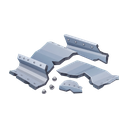
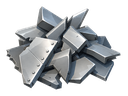
Route material drops to inventory

diff --git a/berries-config.js b/berries-config.js
@@ -24,6 +24,7 @@
       widthPx: 50,
       heightPx: 38,
       inventoryItem: true,
+      findingItem: true,
     },
     {
       id: 'kettle',
@@ -32,6 +33,7 @@
       widthPx: 46,
       heightPx: 46,
       inventoryItem: true,
+      findingItem: true,
     },
     {
       id: 'axe',
@@ -40,6 +42,52 @@
       widthPx: 48,
       heightPx: 48,
       inventoryItem: true,
+      findingItem: true,
+    },
+    {
+      id: 'metal-scrap',
+      titleRu: 'Кусочки металла',
+      assetUrl: './img/scenario-drop/metal-scrap.png?v=20260605-material-inventory',
+      widthPx: 40,
+      heightPx: 32,
+      inventoryItem: true,
+      resourceCategory: 'metal',
+    },
+    {
+      id: 'pine-log',
+      titleRu: 'Еловые брёвна',
+      assetUrl: './img/mineable/log-pine.png',
+      widthPx: 50,
+      heightPx: 38,
+      inventoryItem: true,
+      resourceCategory: 'wood',
+    },
+    {
+      id: 'birch-log',
+      titleRu: 'Берёзовые брёвна',
+      assetUrl: './img/mineable/log-birch.png',
+      widthPx: 50,
+      heightPx: 38,
+      inventoryItem: true,
+      resourceCategory: 'wood',
+    },
+    {
+      id: 'dead-log',
+      titleRu: 'Сухие брёвна',
+      assetUrl: './img/mineable/log-dead.png',
+      widthPx: 52,
+      heightPx: 36,
+      inventoryItem: true,
+      resourceCategory: 'wood',
+    },
+    {
+      id: 'snow-pine-log',
+      titleRu: 'Снежные еловые брёвна',
+      assetUrl: './img/mineable/log-snow-pine.png',
+      widthPx: 52,
+      heightPx: 36,
+      inventoryItem: true,
+      resourceCategory: 'wood',
     },
   ];
 
@@ -206,6 +254,7 @@
       ],
       extractStages: [1, 0.82, 0.66, 0.5],
       extractHarvestMs: 700,
+      extractParticleItemId: 'pine-log',
       extractParticleAssetUrl: './img/mineable/log-pine.png',
       extractParticleWidthPx: 50,
       extractParticleHeightPx: 38,
@@ -257,6 +306,7 @@
       ],
       extractStages: [1, 0.84, 0.68, 0.52],
       extractHarvestMs: 700,
+      extractParticleItemId: 'birch-log',
       extractParticleAssetUrl: './img/mineable/log-birch.png',
       extractParticleWidthPx: 50,
       extractParticleHeightPx: 38,
@@ -308,6 +358,7 @@
       ],
       extractStages: [1, 1, 1, 1],
       extractHarvestMs: 700,
+      extractParticleItemId: 'dead-log',
       extractParticleAssetUrl: './img/mineable/log-dead.png',
       extractParticleWidthPx: 52,
       extractParticleHeightPx: 36,
@@ -359,6 +410,7 @@
       ],
       extractStages: [1, 1, 1, 1],
       extractHarvestMs: 700,
+      extractParticleItemId: 'snow-pine-log',
       extractParticleAssetUrl: './img/mineable/log-snow-pine.png',
       extractParticleWidthPx: 52,
       extractParticleHeightPx: 36,

diff --git a/pixi-game.js b/pixi-game.js
@@ -213,7 +213,7 @@
   ];
 
   const SCENARIO_DROP_IMAGE_ASSETS = [
-    './img/scenario-drop/metal-scrap.png',
+    './img/scenario-drop/metal-scrap.png?v=20260605-material-inventory',
     './img/scenario-drop/nail-puller.png',
     './img/scenario-drop/kettle.png',
     './img/scenario-drop/axe.png',
@@ -458,6 +458,7 @@
   const scenarioDropDefs = Array.isArray(scenarioConfig.drops) ? scenarioConfig.drops : [];
   const BERRIES_LIST = Array.isArray(berriesConfig.berries) ? berriesConfig.berries : [];
   const INVENTORY_ITEMS = Array.isArray(berriesConfig.inventoryItems) ? berriesConfig.inventoryItems : [];
+  const MATERIAL_RESOURCE_CATEGORIES = new Set(['wood', 'metal', 'ore', 'stone']);
   const resourceById = new Map(BERRIES_LIST.map((item) => [item.id, item]));
   const inventoryItemById = new Map(INVENTORY_ITEMS.map((item) => [item.id, item]));
   const scenarioDropById = new Map([...BERRIES_LIST, ...scenarioDropDefs, ...INVENTORY_ITEMS].map((item) => [item.id, item]));
@@ -1082,6 +1083,16 @@
     return getResourceProfitById(def && def.id);
   }
 
+  function isMaterialDropDef(def) {
+    if (!def) return false;
+    const category = def.resourceCategory || def.materialType || def.resourceKind;
+    return Boolean(def.materialItem || def.collectToInventory || MATERIAL_RESOURCE_CATEGORIES.has(category));
+  }
+
+  function isFindingDropDef(def) {
+    return Boolean(def && (def.findingItem || def.scenarioFinding));
+  }
+
   function pickWeightedIndex(list, getW) {
     let sum = 0;
     for (let i = 0; i < list.length; i += 1) sum += Math.max(0, +getW(i) || 0);
@@ -1346,7 +1357,7 @@
         ux: 0,
         uy: 0,
         scenarioDrop: true,
-        special: Boolean(item.special || item.finding || isInventoryDropDef(def)),
+        special: Boolean(((item.special || item.finding) && !isMaterialDropDef(def)) || isFindingDropDef(def)),
       };
     }).filter(Boolean);
   }
@@ -1540,7 +1551,7 @@
       ux: 0,
       uy: 0,
       scenarioDrop: true,
-      special: Boolean(rule.special || rule.finding || isInventoryDropDef(def)),
+      special: Boolean((rule.special || rule.finding || isFindingDropDef(def)) && !isMaterialDropDef(def)),
     };
   }
 
@@ -2178,10 +2189,13 @@
     const primitive = def.primitive || {};
     if (primitive.kind === 'tree') {
       def.__extractParticleDef = {
-        id: def.id,
+        id: def.extractParticleItemId || def.extractParticleDropId || def.id,
+        titleRu: def.extractParticleTitleRu || def.titleRu || def.id,
         assetUrl: def.extractParticleAssetUrl || '',
         widthPx: Number.isFinite(def.extractParticleWidthPx) ? def.extractParticleWidthPx : 48,
         heightPx: Number.isFinite(def.extractParticleHeightPx) ? def.extractParticleHeightPx : 34,
+        inventoryItem: true,
+        resourceCategory: 'wood',
         primitive: { kind: 'log', bark: primitive.trunk || '#6d4a2f', core: '#c89a5b' },
       };
     } else {
@@ -2520,7 +2534,7 @@
   }
 
   function isInventoryDropDef(def) {
-    return Boolean(def && (def.inventoryItem || inventoryItemById.has(def.id)));
+    return Boolean(def && (def.inventoryItem || inventoryItemById.has(def.id) || isMaterialDropDef(def)));
   }
 
   function collectInventoryDrop(def) {

diff --git a/index.html b/index.html
@@ -494,12 +494,12 @@
   </div>
 
   <script src="https://cdn.jsdelivr.net/npm/pixi.js@7.4.2/dist/pixi.min.js"></script>
-  <script src="./berries-config.js?v=20260604-strawberry-balance"></script>
+  <script src="./berries-config.js?v=20260605-material-inventory"></script>
   <script src="./buildings-config.js"></script>
-  <script src="./scenario-objects-config.js?v=20260604-cloud-horizon-shadow"></script>
+  <script src="./scenario-objects-config.js?v=20260605-material-inventory"></script>
   <script src="./ui-config.js"></script>
   <script src="./enlarge-config.js"></script>
-  <script src="./pixi-game.js?v=20260604-scenario-drop-scatter"></script>
-  <script src="./pixi-ui.js?v=20260604-cloud-horizon-shadow"></script>
+  <script src="./pixi-game.js?v=20260605-material-inventory"></script>
+  <script src="./pixi-ui.js?v=20260605-material-inventory"></script>
 </body>
 </html>

diff --git a/scenario-objects-config.js b/scenario-objects-config.js
@@ -4,10 +4,11 @@
     {
       id: 'metal-scrap',
       titleRu: 'Кусочки металла',
-      assetUrl: './img/scenario-drop/metal-scrap.png',
+      assetUrl: './img/scenario-drop/metal-scrap.png?v=20260605-material-inventory',
       widthPx: 40,
       heightPx: 32,
-      profit: 12,
+      inventoryItem: true,
+      resourceCategory: 'metal',
     },
     {
       id: 'pine-log',
@@ -15,7 +16,8 @@
       assetUrl: './img/mineable/log-pine.png',
       widthPx: 50,
       heightPx: 38,
-      profit: 6,
+      inventoryItem: true,
+      resourceCategory: 'wood',
       primitive: { kind: 'log', bark: '#6d4a2f', core: '#c89a5b' },
     },
   ];

diff --git a/pixi-ui.js b/pixi-ui.js
@@ -34,9 +34,14 @@
     './img/rare/colorado-beetle.png',
     './img/ui/inventory-bag.png',
     './img/ui/shine.png',
+    './img/scenario-drop/metal-scrap.png?v=20260605-material-inventory',
     './img/scenario-drop/nail-puller.png',
     './img/scenario-drop/kettle.png',
     './img/scenario-drop/axe.png',
+    './img/mineable/log-pine.png',
+    './img/mineable/log-birch.png',
+    './img/mineable/log-dead.png',
+    './img/mineable/log-snow-pine.png',
   ]);
   Array.from({ length: 10 }, (_, index) => `./img/building/drill-${index + 1}.png`)
     .forEach((url) => KNOWN_LOCAL_ASSETS.add(url));